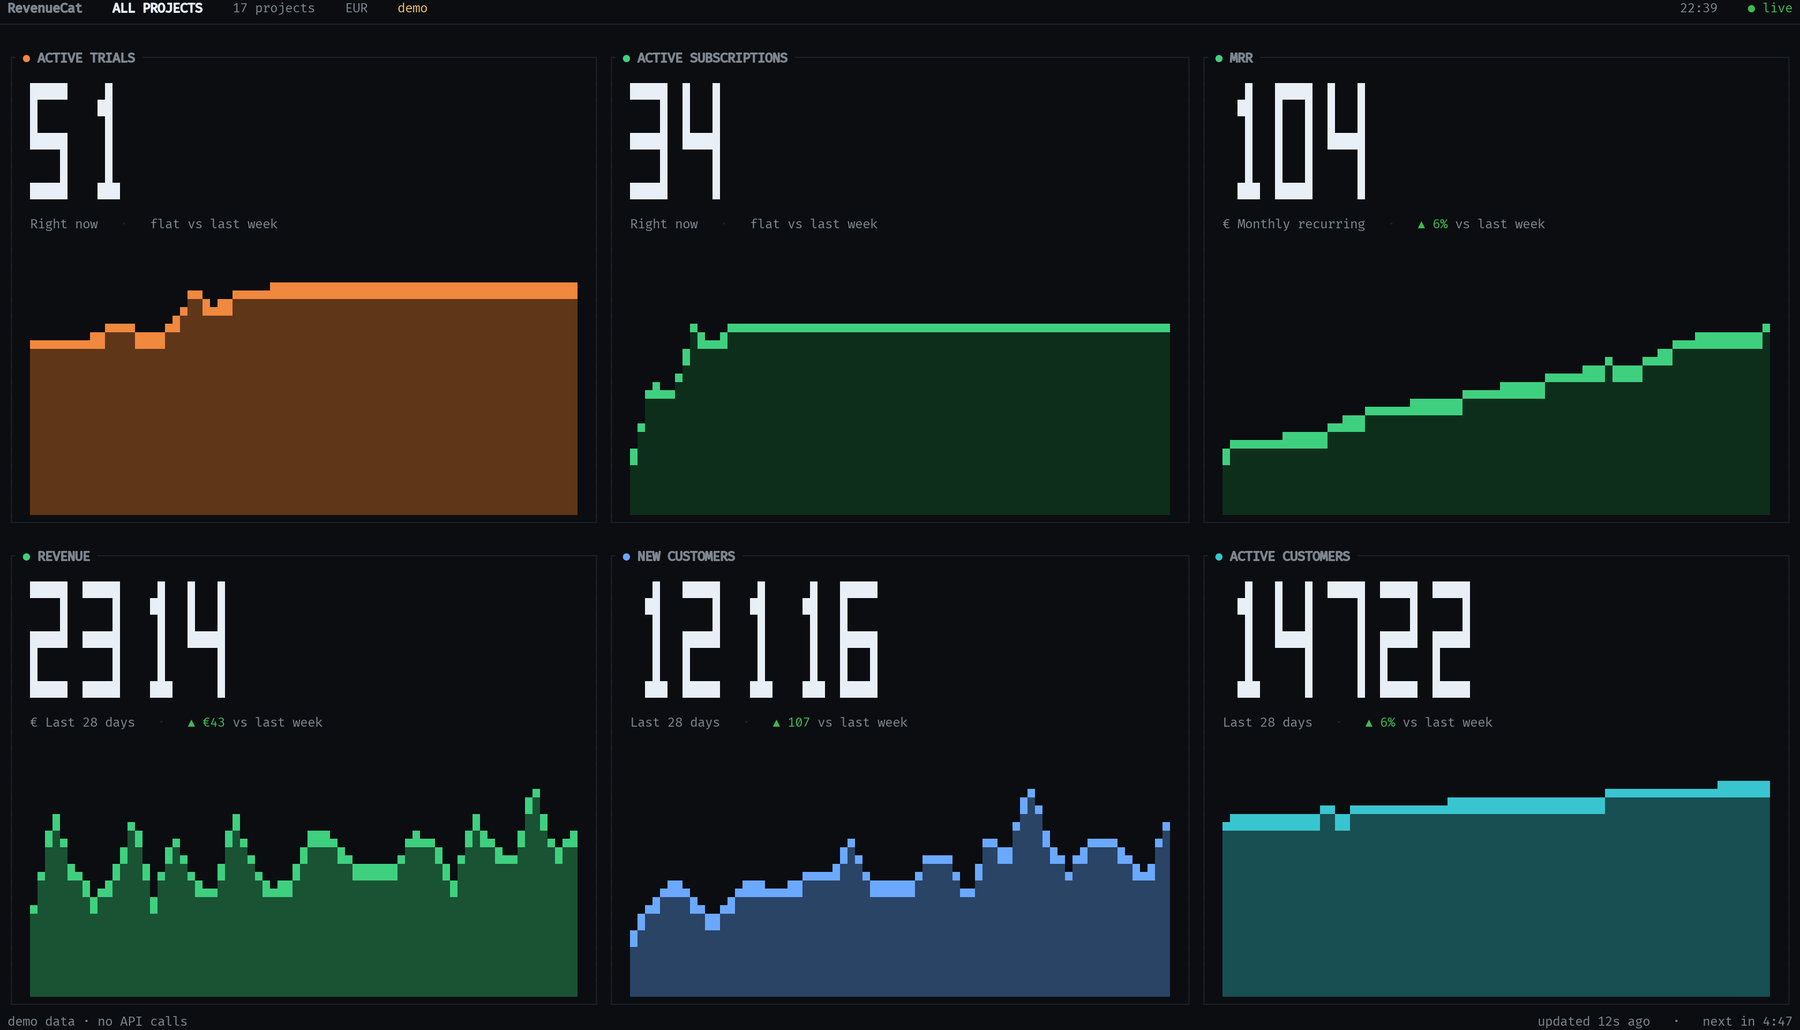
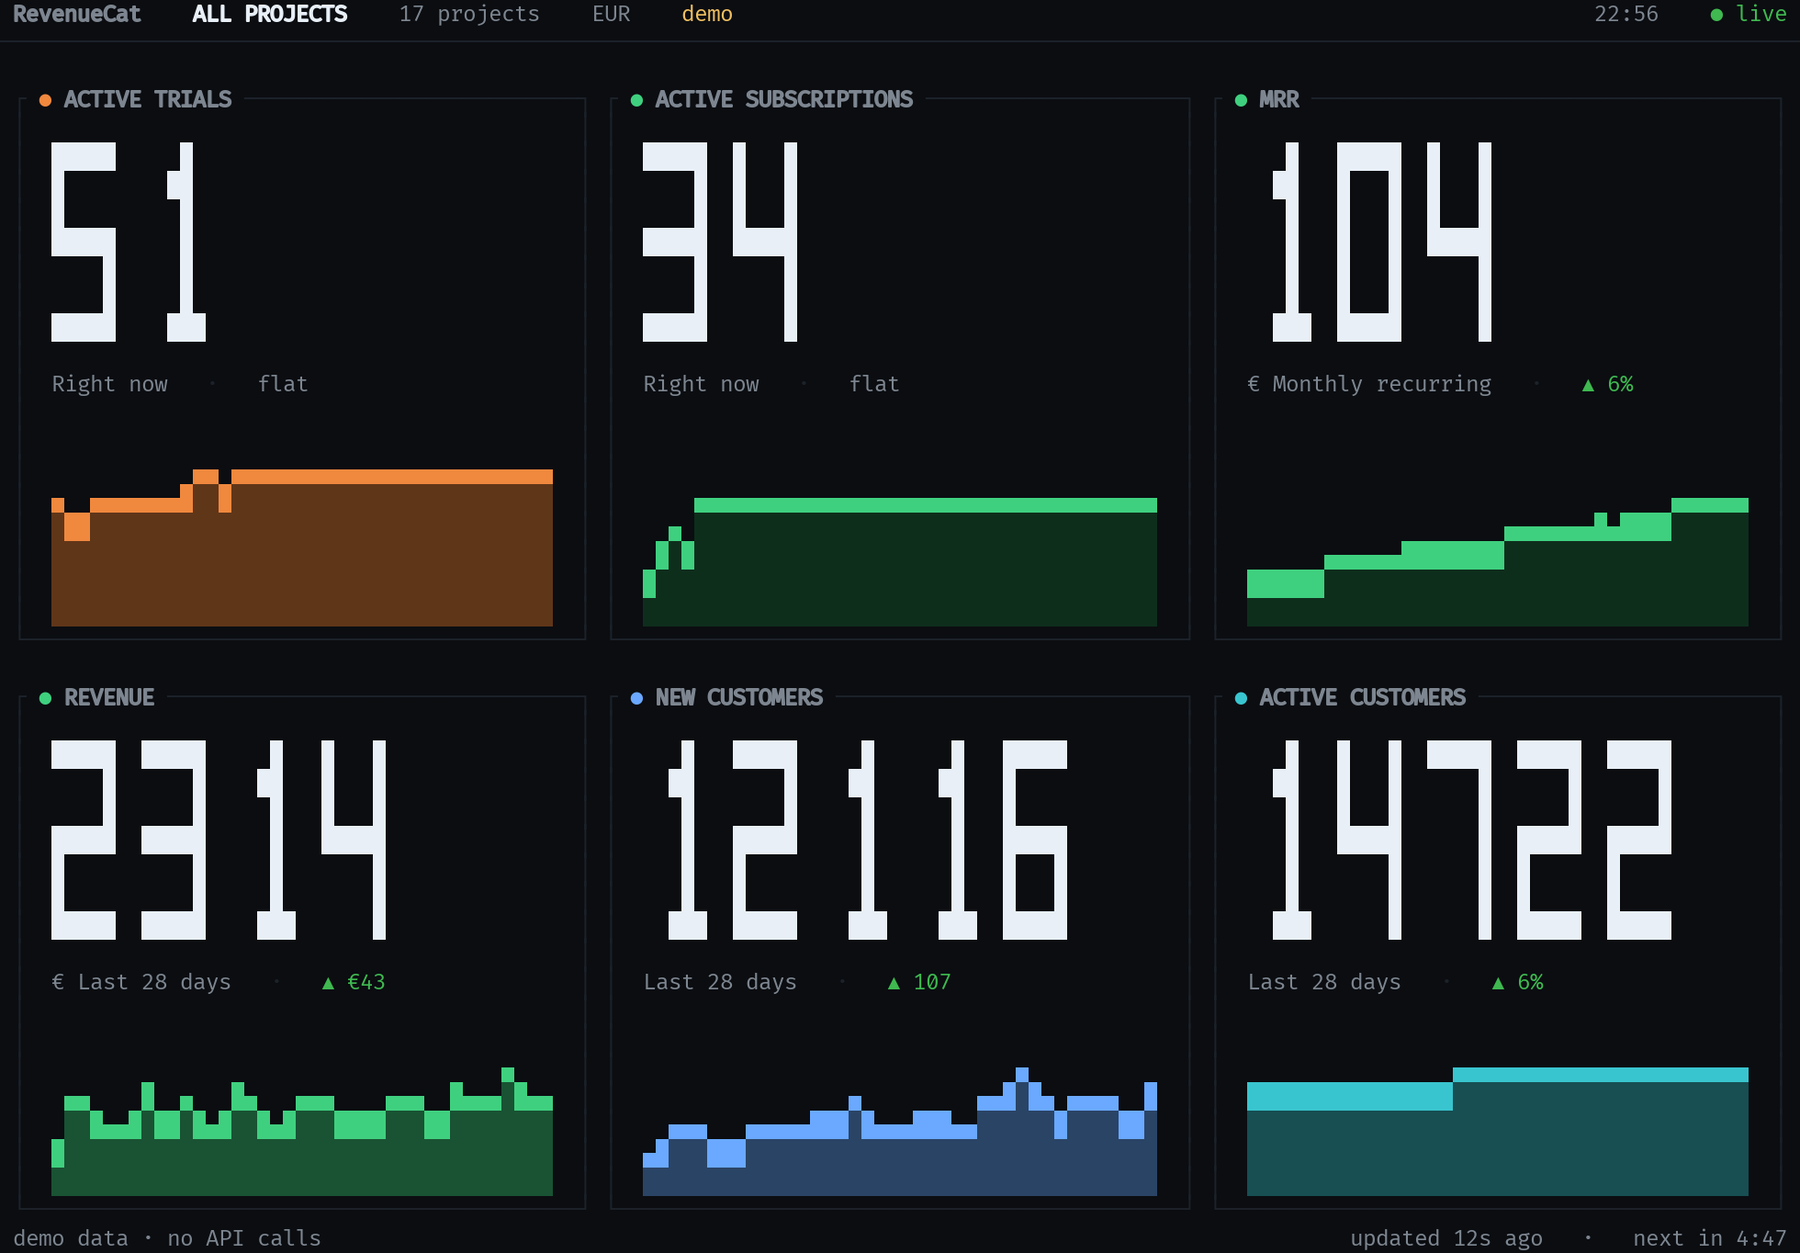
Enlarge the README demo screenshot

diff --git a/README.md b/README.md
@@ -9,9 +9,9 @@ metrics the dashboard sums, and `p` opens a filterable project picker. Enter on 
 card opens a 7/28/90-day detail view with a per-project breakdown; `!` shows the
 health of every project, and `?` lists every key.
 
-![rc-tui demo](docs/rc-tui-demo.png)
+[![rc-tui demo](docs/rc-tui-demo.png)](docs/rc-tui-demo.png)
 
-*`rc-tui --demo` — 17 mocked projects, no credentials.*
+*`rc-tui --demo` — 17 mocked projects, no credentials. Click for full size.*
 
 Values are the hero (big block digits), the trend compares the last week with the
 one before, and the footer keeps only the refresh status once you stop pressing
